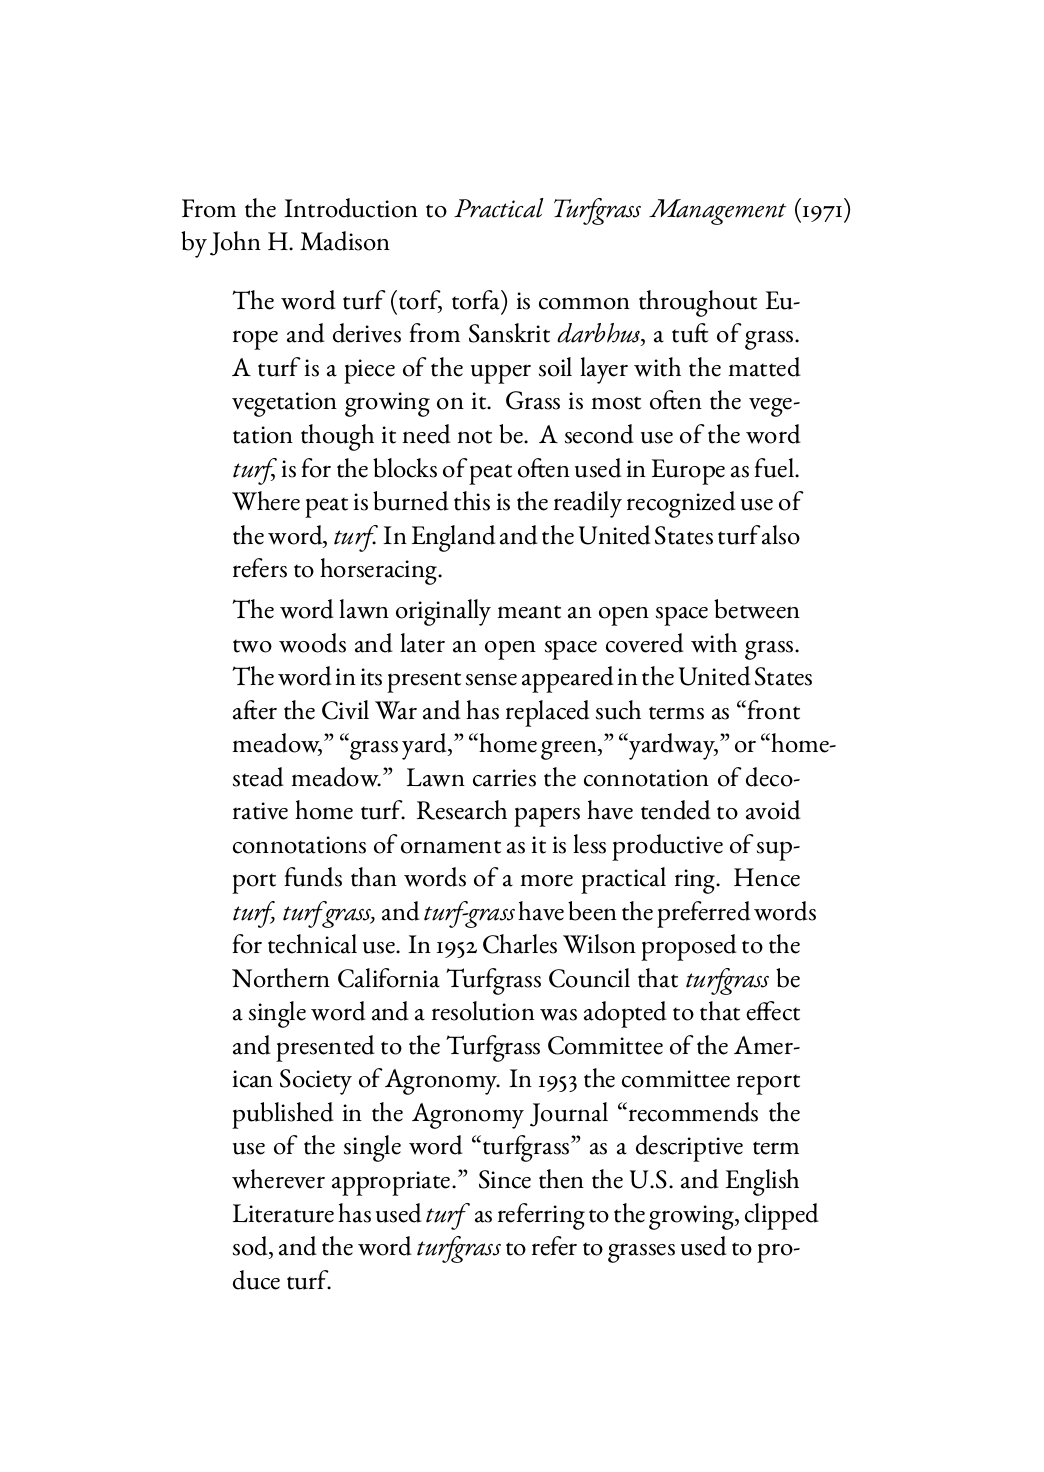
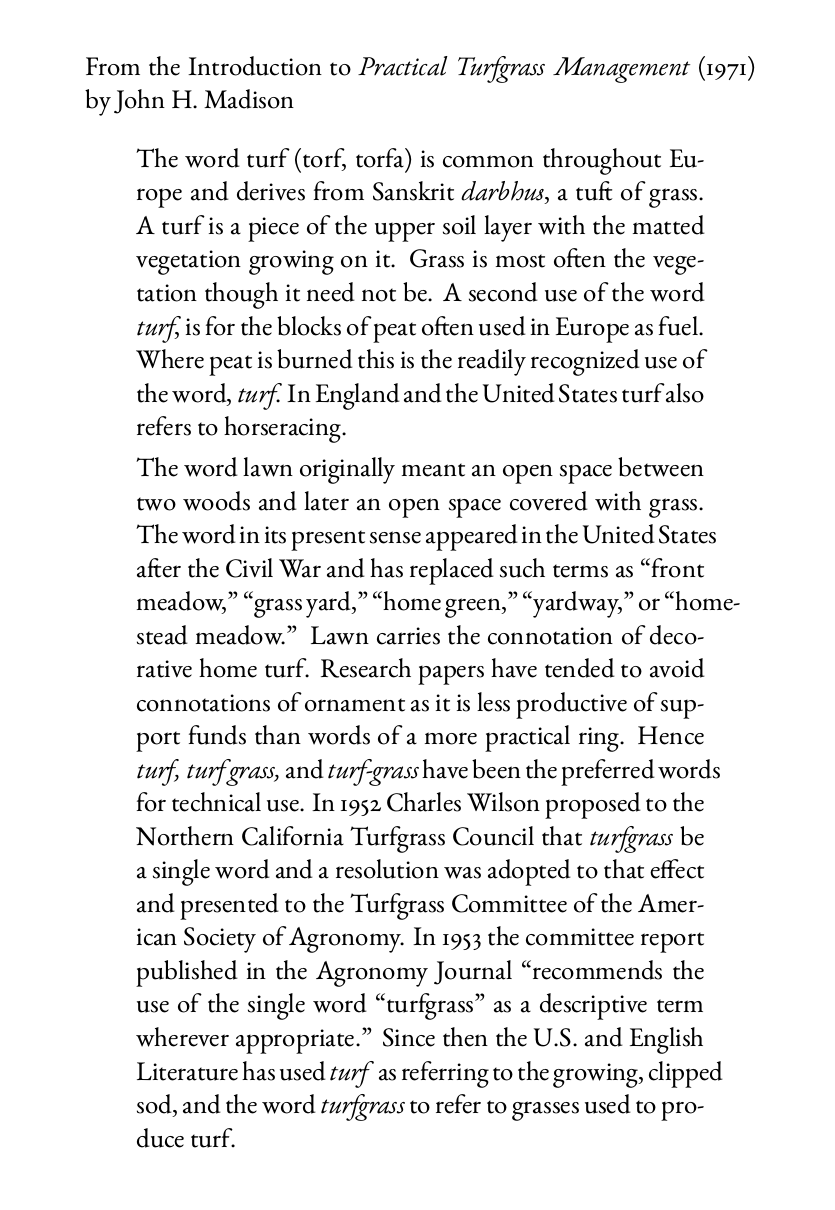
updated text and big quote image

Changed region(s): [[0.1557, 0.1223, 0.8719, 0.9479], [0.0934, 0.0306, 0.3737, 0.0917], [0.4359, 0.0306, 0.903, 0.0612]]

diff --git a/_posts/2018-09-28-turf-grass-or-turfgrass.md b/_posts/2018-09-28-turf-grass-or-turfgrass.md
@@ -10,9 +10,9 @@ There is an interesting thread on Twitter, started by Mike Richardson, about [tu
 <blockquote class="twitter-tweet" data-lang="en"><p lang="en" dir="ltr">The answer is found in this reference. Both bahiagrass and bermudagrass should not be capitalized according to these rules.<br>Juska, F. V., W. H. Daniel, E. C. Holt, and V. B. Youngner. 1962. Nomenclature of some plants associated with turfgrass management. Agron. J. 54:275-276. <a href="https://t.co/0jl2NEJozH">pic.twitter.com/0jl2NEJozH</a></p>&mdash; Aaron Patton (@PurdueTurfDoc) <a href="https://twitter.com/PurdueTurfDoc/status/1044257398167425025?ref_src=twsrc%5Etfw">September 24, 2018</a></blockquote>
 <script async src="https://platform.twitter.com/widgets.js" charset="utf-8"></script>
 
-PACE Turf (Larry Stowell, I presume) [asked a related question](https://twitter.com/paceturf/status/1044798861334654976) about the etymology of turf grass vs. turfgrass. That's a good one, because it should almost always be turfgrass, but spellchecking software will often flag that as incorrect, and suggest a change to turf grass. In fact, I reviewed a document this week that seemed to have been written in the type of word processing software that makes such mistakes. I noted a lot of *turf grass*'s that should have been *turfgrass*. 
+PACE Turf (Larry Stowell, I presume) [asked a related question](https://twitter.com/paceturf/status/1044798861334654976) about the etymology of turf grass vs. turfgrass. That's a good one, because it should almost always be turfgrass, but spellchecking software will often flag **turfgrass**  as incorrect, and suggest a change to **turf grass** instead.
 
-Anyway, I found some information on this. From Madison in 1971:
+[Madison wrote about this](http://tic.msu.edu/tgif/flink?recno=255 ) in his introduction to *Practical Turfgrass Management*:
 
 ![excerpt from Madison textbook 1971 on turfgrass word usage](/img/madison_turf_turfgrass_1971.png)
 
